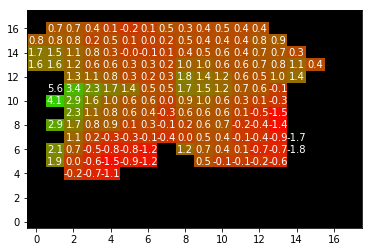
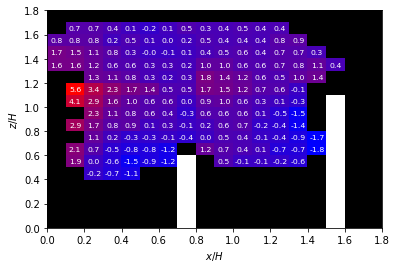
New graphs and great data

diff --git a/scripts/acc_mesurments.py b/scripts/acc_mesurments.py
@@ -10,6 +10,8 @@ import tools as tls
 import numpy as np
 import matplotlib.pyplot as pplot
 import flowtracks.io as ft
+from Cd_drag_mesurment import air_density
+from Raupach_eq_drag_mesurments import get_drag_raupach
 import math
 
 def group_avarage_acc(data, grouping_func,
@@ -36,10 +38,20 @@ def draw_quiver(vel):
         if x > 0:
             continue
         z = int(float(key.split(", ")[1].replace(")", "")) * 100)
-        matx[z, -x] = math.sqrt(math.sqrt(abs(-acc[key][0][0]))) * np.sign(-acc[key][0][0])
-        matz[z, -x] = math.sqrt(math.sqrt(abs(acc[key][0][1]))) * np.sign(acc[key][0][1])
+        matx[z, -x] = math.sqrt(abs(-acc[key][0][0])) * np.sign(-acc[key][0][0])
+        matz[z, -x] = math.sqrt(abs(acc[key][0][1])) * np.sign(acc[key][0][1])
     
-    ax.quiver(matx, matz, units="xy")
+    Y = np.zeros((18, 18))
+    X = np.zeros((18, 18))
+    for i in xrange(len(Y)):
+        for j in xrange(len(Y)):
+            Y[i, j] = i / 10.0
+            X[i, j] = j / 10.0
+    
+    ax.quiver(X, Y, matx, matz, units="inches", scale=8)
+    
+    ax.set_xlabel(r"x/H")
+    ax.set_ylabel(r"z/H")
     
     return fig, ax
         
@@ -61,33 +73,42 @@ def plot_accl(vel):
     maximum = max(vals_raw)
     minimum = min(vals_raw)
     mat = np.zeros(shape=(18, 18, 3)).tolist()
-    mat_s = np.zeros(shape=(1, 18, 3)).tolist()
+    mat_s = np.zeros(shape=(1, 99, 3)).tolist()
     
     for key in acc.keys():
-        if acc[key][1] < 10000:
-            continue
         x = int(float(key.split(", ")[0].replace("(", "")) * 100)
         if x > 0:
             continue
+        if acc[key][1] < 10000:
+            continue
         z = int(float(key.split(", ")[1].replace(")", "")) * 100)
-        val = ((-acc[key][0][0] - minimum) / (maximum - minimum)) * 255.0
-        mat[z][-x][0] = np.ubyte(val)
-        mat[z][-x][1] = np.ubyte(255 - val)
-        mat[z][-x][2] = np.ubyte(0)
-        ax.text(-x, z, round(-acc[key][0][0], 1), ha="center", va="center", color="w")
+        val = ((-acc[key][0][0] - minimum) / (maximum - minimum))
+        mat[z][-x][0] = val
+        mat[z][-x][1] = 0
+        mat[z][-x][2] = 1.0 - val
+        ax.text(-x / 10.0 + 0.05, z / 10.0 + 0.05, round(-acc[key][0][0], 1), ha="center",
+                va="center", color="w", size=7.8)
     
-    val = 255
+    for i in xrange(11):
+        if i <= 5:
+            mat[i][7] = [1, 1, 1]
+        mat[i][15] = [1, 1, 1]
+    
+    val = 0.01
     ind = 0
-    while val >= 0:
-        mat_s[0][ind][0] = np.ubyte(val)
-        mat_s[0][ind][1] = np.ubyte(255 - val)
-        mat_s[0][ind][2] = np.ubyte(0)
+    while val <= 1:
+        mat_s[0][ind][0] = val
+        mat_s[0][ind][1] = 0
+        mat_s[0][ind][2] = 1 - val
         ind += 1
-        val -= 15
+        val += 0.01
         
     sax.imshow(mat_s,  extent=[minimum, maximum, 0, 1], aspect='auto')
     sax.set_xticks(map(lambda a: round(a, 2), np.linspace(minimum, maximum, 12)))
-    ax.imshow(mat, origin="lower", aspect='auto')
+    ax.imshow(mat, extent=[0, 1.8, 0, 1.8], origin="lower", aspect='auto')
+    
+    ax.set_xlabel(r"$x/H$")
+    ax.set_ylabel(r"$z/H$")
     
     return fig, ax, scale, sax
     
@@ -101,10 +122,12 @@ my test:
 @author: Alexey
 """
 mass = air_density * 0.01 * 0.01 * 0.1
-def sum_all_acc(vel, mult=mass, only_corner = False):
+def sum_all_acc(vel, area=0.05*0.01, mult=mass, only_corner = False):
     acc = tls.read_json("accel_by_x_and_z_" + vel)
     total = {}
     count = {}
+    Cd = {}
+    Cd_g = {}
     for key in acc.keys():
         
         if only_corner and -float(key.split(", ")[0].replace('(', "")) <= 0.1:
@@ -117,7 +140,13 @@ def sum_all_acc(vel, mult=mass, only_corner = False):
         else:
             total[h] = np.array(acc[key][0])*mult
             count[h] = acc[key][1]
+    tmp = get_drag_raupach(vel)["v"]
     for key in total.keys():
         total[key] = [total[key], count[key]]
-    return total
+        Cd_g[key] = (-total[key][0][0] * 2) / (air_density * (float(vel)**2) * area), count[key]
+        try:
+            Cd[key] = (-total[key][0][0] * 2) / (air_density * (tmp[round(key * 100.0) - 0.5]**2) * area), count[key]
+        except KeyError:
+            pass
+    return total, Cd, Cd_g
         

diff --git a/scripts/plots.py b/scripts/plots.py
@@ -1,0 +1,115 @@
+#!/usr/bin/env python2
+# -*- coding: utf-8 -*-
+"""
+Created on Wed Jul 25 09:53:15 2018
+
+@author: ron
+"""
+
+import tools as tls
+import numpy as np
+import matplotlib.pyplot as pplot
+from Raupach_eq_drag_mesurments import get_drag_raupach, area_by_volume
+from acc_mesurments import sum_all_acc
+from Cd_drag_mesurment import calc_vel_and_drag_from_data_Cd, general, air_density
+
+def quiver_velocity(vel):
+    acc = tls.read_json("raupach_data/avg_vel_by_loc_" + vel)
+    fig, ax = pplot.subplots()
+    matx = np.zeros((18, 18))
+    matcount = np.zeros((18, 18))
+    matz = np.zeros((18, 18))
+ 
+    for key in acc.keys():
+        x = int(float(key.split(", ")[0].replace("(", "")) * 100.0)
+        z = int(float(key.split(", ")[1]) * 100.0)
+        if x > 0:
+            x *= -1
+        matx[z, -x] += -acc[key][0][0] * acc[key][1]
+        matz[z, -x] += acc[key][0][1] * acc[key][1]
+        matcount[z, -x] += acc[key][1]
+
+    Y = np.zeros((18, 18))
+    X = np.zeros((18, 18))
+    for i in xrange(len(Y)):
+        for j in xrange(len(Y)):
+            Y[i, j] = i / 10.0
+            X[i, j] = j / 10.0
+            if matcount[i, j] != 0:
+                matx[i, j] /= matcount[i, j]
+                matz[i, j] /= matcount[i, j]
+    
+    ax.quiver(X, Y, matx, matz, units="inches", scale=1)
+    
+    ax.set_xlabel(r"x/H")
+    ax.set_ylabel(r"z/H")
+    
+    return fig, ax
+
+def plot_drag(vel, mass = air_density * 0.1 * 0.01 * 0.15):
+    fig, ax = pplot.subplots()
+    
+    t = calc_vel_and_drag_from_data_Cd(general + vel)["drag_list"]
+    t = t[:-7]
+    ax.plot(map(lambda a: a[1] * 10, t), map(lambda a: a[0], t), "bo-", label="Fox et. al.")
+        
+    t = sum_all_acc(vel, only_corner=True)[0]
+    lis = []
+    for key in sorted(t.keys()):
+        lis.append((t[key][0][0], key * 10.0))
+    lis = lis[1:-7]
+    ax.plot(map(lambda a: a[1], lis), map(lambda a: a[0], lis), "co-", label="Accel local avg")
+    
+    t = get_drag_raupach(vel, area=area_by_volume)["rey stress gradient"]
+    lis = []
+    for key in sorted(t.keys()):
+        lis.append((t[key] * mass, key / 10.0))
+    lis = lis[:-6]
+    ax.plot(map(lambda a: a[1], lis), map(lambda a: -a[0], lis), "mo-", label="Brunet et. al.")
+    
+    ax.legend()
+    ax.set_xlabel(r"z/H")
+    ax.set_ylabel("Drag (N)")
+    
+    return fig, ax
+
+def plot_Cd(vel, use_U_inf=False):
+    fig, ax = pplot.subplots()
+    if not use_U_inf:
+        ax.plot([0.5, 0.6, 0.7, 0.8, 0.9, 1], np.ones(6)*2.05, "bo-", label="Fox et. al.")
+    else:
+        t = calc_vel_and_drag_from_data_Cd(general + vel)["drag_list"]
+        t = t[:-7]
+        ax.plot(map(lambda a: a[1] * 10.0, t), map(lambda a: a[0] / (0.5 * air_density * 0.01 * 0.05 * (float(vel)**2)), t), "bo-", label="Fox et. al.")
+    
+    t = get_drag_raupach(vel, area=area_by_volume)["Cd br"] \
+    if not use_U_inf else get_drag_raupach(vel, area=area_by_volume)["Cd"]
+    lis = []
+    for key in sorted(t.keys()):
+        lis.append((t[key], key / 10.0))
+    if not use_U_inf:
+        lis = lis[1:]
+    ax.plot(map(lambda a: a[1], lis), map(lambda a: a[0], lis), "mo-", label="Brunet et. al.")
+    
+    """
+    t = sum_all_acc("2.5")[1]
+    lis = []
+    for key in sorted(t.keys()):
+        lis.append((t[key][0], key * 10.0))
+    lis = lis[1:-7]
+    ax.plot(map(lambda a: a[1], lis), map(lambda a: a[0], lis), "co-", label="Accel total avg")
+    """
+    
+    t = sum_all_acc(vel, only_corner=True)[1] \
+    if not use_U_inf else sum_all_acc(vel, only_corner=True)[2]
+    lis = []
+    for key in sorted(t.keys()):
+        lis.append((t[key][0], key * 10.0))
+    lis = lis[1:-7]
+    ax.plot(map(lambda a: a[1], lis), map(lambda a: -a[0], lis), "co-", label="Accel local avg")
+    
+    ax.legend()
+    ax.set_xlabel(r"z/H")
+    ax.set_ylabel(r"$\frac{F_D}{\rho A U^2_{\infty}}$", size = 15)
+    
+    return fig, ax

diff --git a/scripts/Raupach_eq_drag_mesurments.py b/scripts/Raupach_eq_drag_mesurments.py
@@ -21,7 +21,7 @@ def calculate_end_derivative(last, prelast, preprelast, h):
     return (1.0 / (2.0*h)) * (preprelast - 4*prelast + 3*last)
 
 
-def_accuracy = 10 ** 5
+def_accuracy = 10 ** 4
 area_by_volume = (0.01*0.05)/(0.1*0.15*0.01)
 def get_drag_raupach(velocity, linear = False, area = 0.0005, accuracy=def_accuracy):
     
@@ -138,7 +138,7 @@ def get_drag_raupach(velocity, linear = False, area = 0.0005, accuracy=def_accur
     c_d_b = {}
     
     for key in drag.keys():
-        c_d[key] = drag[key] / (-0.5 * (float(velocity) ** 2) * area)
+        c_d[key] = drs[key] / (-0.5 * (float(velocity) ** 2) * area)
         c_d_b[key] = drs[key] / (-0.5 * area * (x_dir_vel[key]**2))
     
     to_ret["Cd"] = c_d

diff --git a/scripts/tools.py b/scripts/tools.py
@@ -20,6 +20,13 @@ def read_json(file_name):
     with open(root + file_name + ".json", "r") as f:
         return json.load(f)
     
+fig = None
+ax = None
+def p():
+    global fig
+    global ax
+    fig, ax = pplot.subplots()
+    
 """
 Created on Sun Jul 15 15:19:06 2018
 

diff --git a/scripts/Cd_drag_mesurment.py b/scripts/Cd_drag_mesurment.py
@@ -47,7 +47,7 @@ general = "cd_data/avg_vel_by_height_"
 nb = "cd_data/nb_"
 def calc_vel_and_drag_from_data_Cd(data, area=0.0005, acc=minimum_acc):
     ret = {}
-    0
+    
     if type(data) is str:
         data = tls.read_json(data)
         
